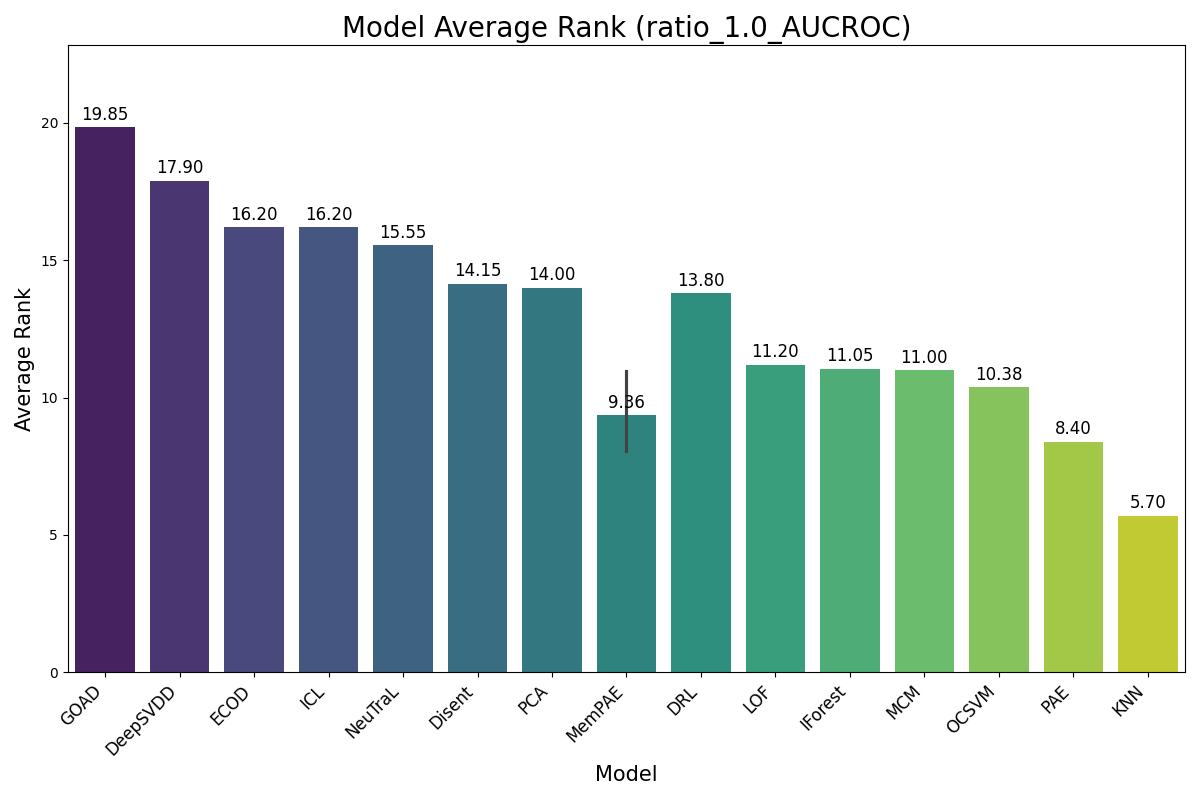
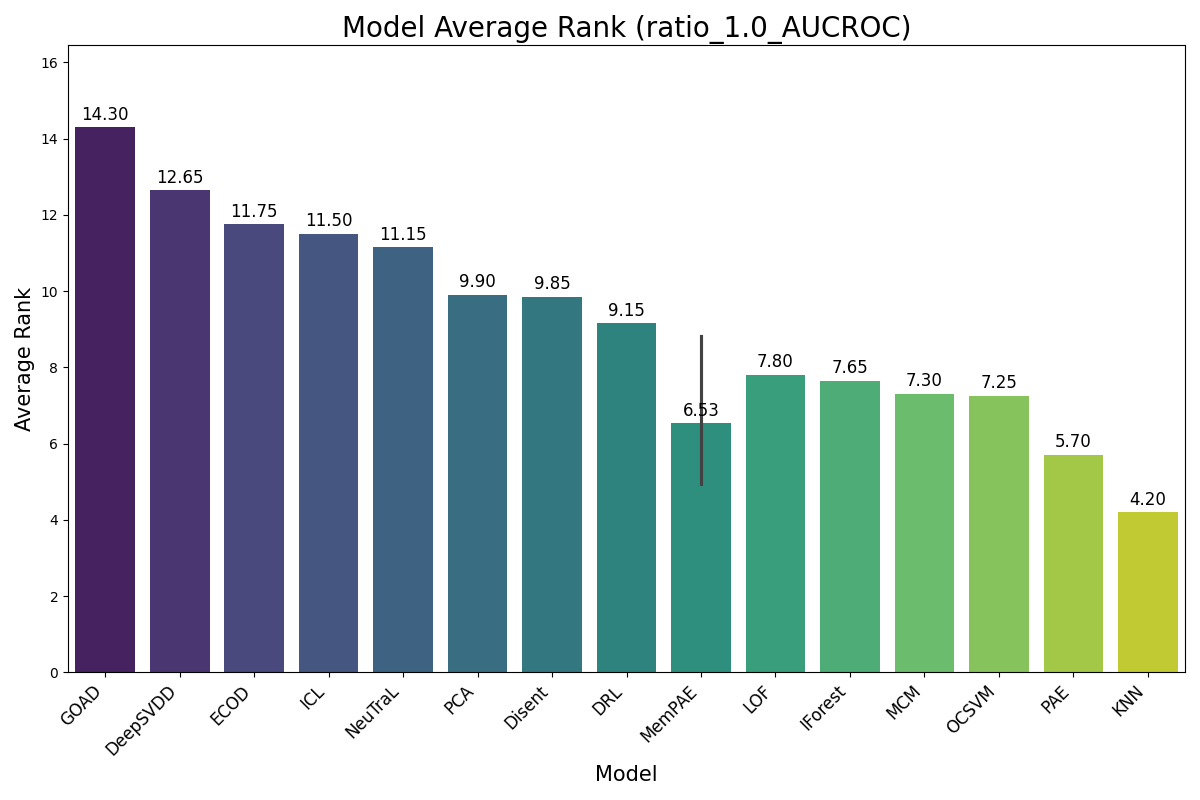
temp

diff --git a/summary.py b/summary.py
@@ -660,15 +660,16 @@ def main(args):
         # MemPAE with small memory Ablation
         # 'MemPAE-ws-pos_query+token-memory_ratio4.0-d64-lr0.001-t0.1',
         'MemPAE-ws-pos_query+token-d64-lr0.001-t0.1', # this is final
-        'MemPAE-pos_query+token-L4-d64-lr0.001-t0.1',
-        'MemPAE-ws-d64-lr0.001-t0.1', # tmux 0
-        'MemPAE-d64-lr0.001-t0.1', # tmux 1
-        'MemPAE-ws-pos_query+token-np-top1-L4-d64-lr0.001-t0.1',
-        'MemPAE-ws-pos_query+token-np-top1-L5-d64-lr0.001-t0.1',
+        # 'MemPAE-pos_query+token-L4-d64-lr0.001-t0.1',
+        # 'MemPAE-ws-d64-lr0.001-t0.1', # tmux 0
+        # 'MemPAE-d64-lr0.001-t0.1', # tmux 1
+        # 'MemPAE-ws-pos_query+token-np-top1-L4-d64-lr0.001-t0.1',
+        # 'MemPAE-ws-pos_query+token-np-top1-L5-d64-lr0.001-t0.1',
         # 'MemPAE-ws-pos_query+token-top5-L4-d64-lr0.001-t0.1',
-        'MemPAE-ws-pos_query+token-np-top5-L3-d64-lr0.001-t0.1',
-        'MemPAE-ws-pos_query+token-np-top5-L4-d64-lr0.001-t0.1',
+        # 'MemPAE-ws-pos_query+token-np-top5-L3-d64-lr0.001-t0.1',
+        # 'MemPAE-ws-pos_query+token-np-top5-L4-d64-lr0.001-t0.1',
         'MemPAE-ws-pos_query+token-np-top5-L5-d64-lr0.001-t0.1',
+        'MemPAE-ws-pos_query+token-np-top1-L5-d64-lr0.001-t0.1',
         # 'MemPAE-ws-pos_query+token-mlp_dec-d64-lr0.001-t0.1',
         # 'MemPAE-ws-pos_query+token-use_ent_score-ent10-d64-lr0.001-t0.1',
         # 'MemPAE-ws-pos_query+token-use_ent_score-ent3-d64-lr0.001-t0.1',

diff --git a/models/MemPAE/Model.py b/models/MemPAE/Model.py
@@ -374,6 +374,8 @@ class MemPAE(nn.Module):
             assert entropy_loss_weight is not None
         if not use_pos_enc_as_query:
             assert not use_mask_token
+        if top_k is not None:
+            top_k = min(top_k, num_memories)
 
         print("Init MemPAE with weight_sharing" if is_weight_sharing else "Init MemPAE without weight sharing")
         print(f"latent_loss_weight={latent_loss_weight} and entropy_loss_weight={entropy_loss_weight}")
